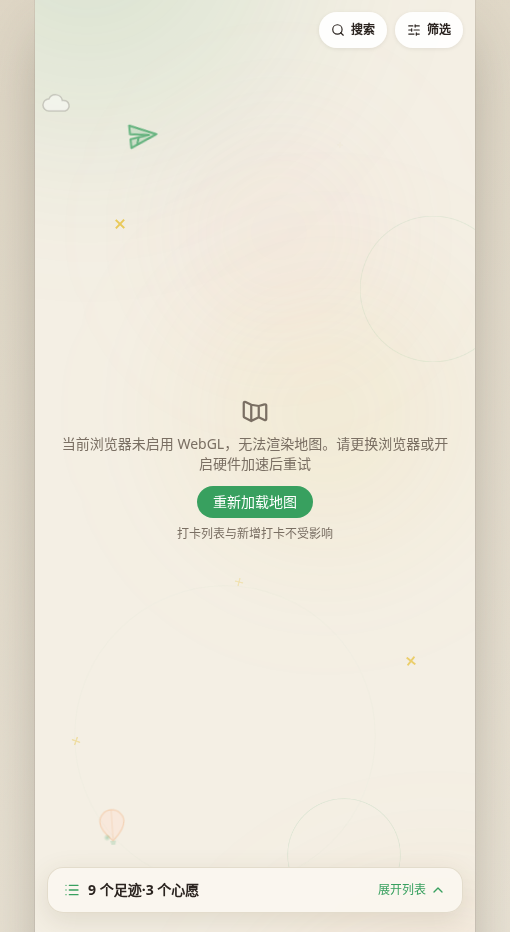
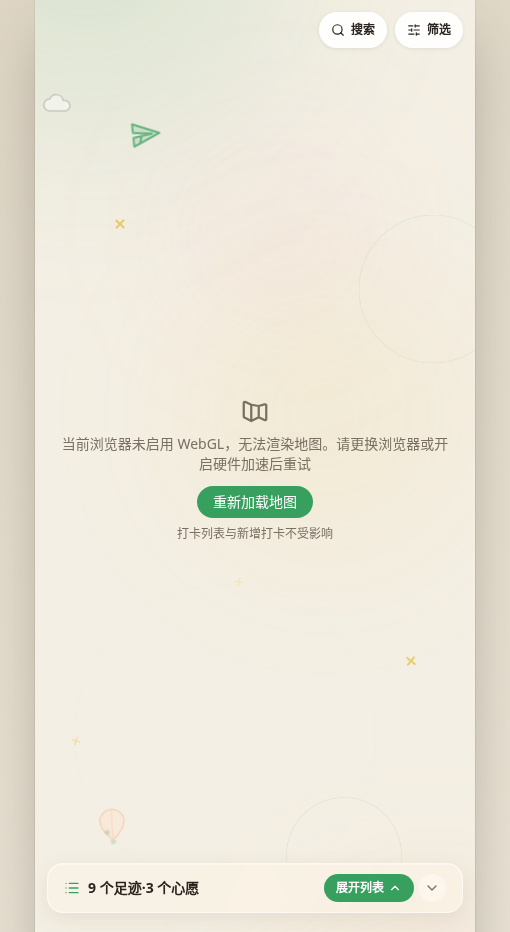
fix: 底栏移除冗余展开列表按钮，点条身展开

Changed region(s): [[0.6176, 0.9335, 0.8529, 0.9957], [0.1176, 0.9335, 0.3824, 0.9646], [0.2353, 0.1245, 0.3235, 0.1556]]

diff --git a/frontend/src/pages/Index.tsx b/frontend/src/pages/Index.tsx
@@ -412,28 +412,19 @@ export default function Index() {
               <ChevronUp className="h-4 w-4" style={{ color: 'var(--primary)' }} />
             </button>
           ) : barState === 'bar' ? (
-            /* 常驻条：显示统计 + 可展开列表 / 收起成角标 */
+            /* 常驻条：点条身展开列表，右侧小钮收起成角标 */
             <div className="glass-shimmer pointer-events-auto flex w-full items-center justify-between gap-2 rounded-2xl px-4 py-2.5">
               <button
                 type="button"
-                onClick={() => setBarPersist('collapsed')}
-                aria-label={t('收起足迹条')}
-                className="flex items-center gap-2 text-sm font-semibold"
+                onClick={() => setBarPersist('list')}
+                aria-label={t('展开列表')}
+                className="flex flex-1 items-center gap-2 text-sm font-semibold"
                 style={{ color: 'var(--foreground)' }}
               >
                 <List className="h-4 w-4" style={{ color: 'var(--primary)' }} />
                 {t('{{visited}} 个足迹·{{wish}} 个心愿', { visited: visitedCount, wish: wishCount })}
               </button>
               <span className="flex items-center gap-1">
-                <button
-                  type="button"
-                  onClick={() => setBarPersist('list')}
-                  className="flex items-center gap-1 rounded-full px-3 py-1.5 text-xs font-bold"
-                  style={{ background: 'var(--primary)', color: 'var(--primary-foreground)' }}
-                >
-                  {t('展开列表')}
-                  <ChevronUp className="h-3.5 w-3.5" />
-                </button>
                 <button
                   type="button"
                   onClick={() => setBarPersist('collapsed')}
